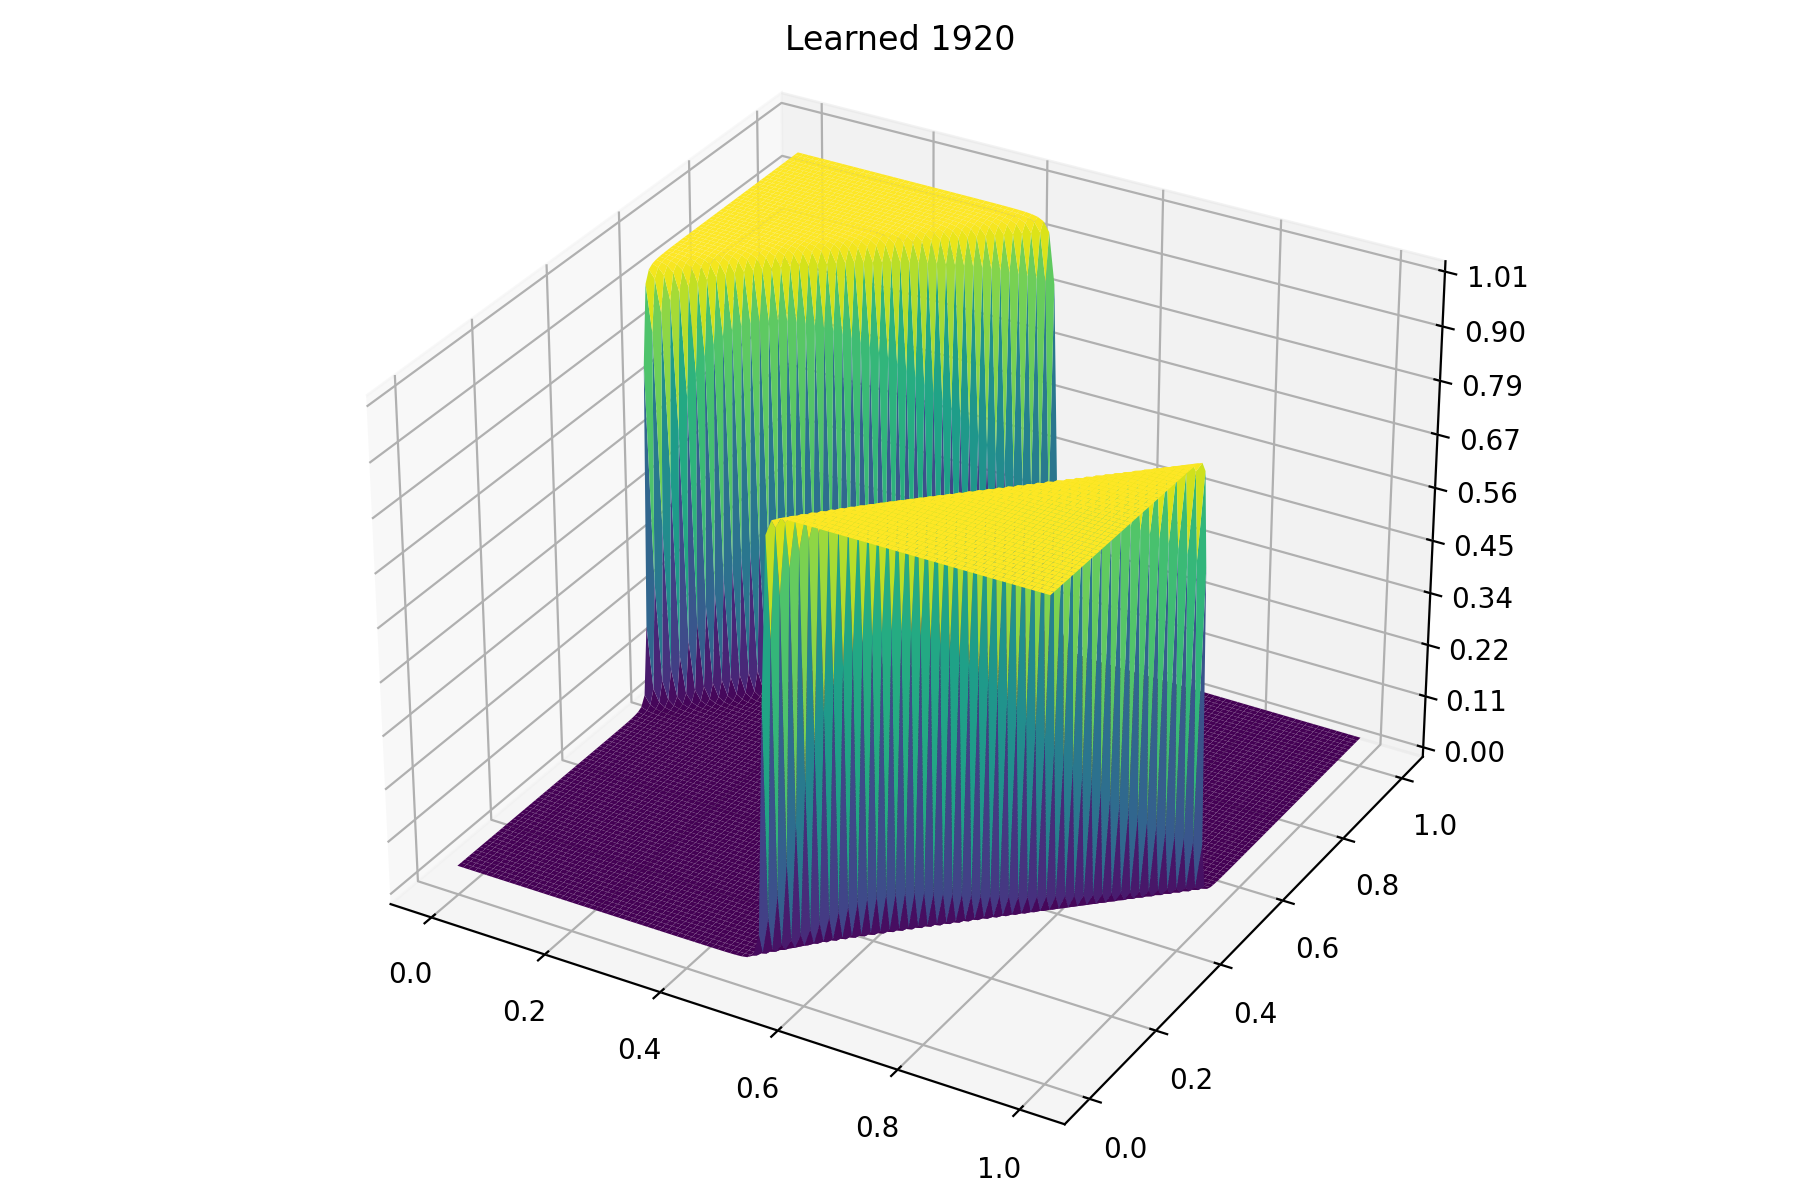
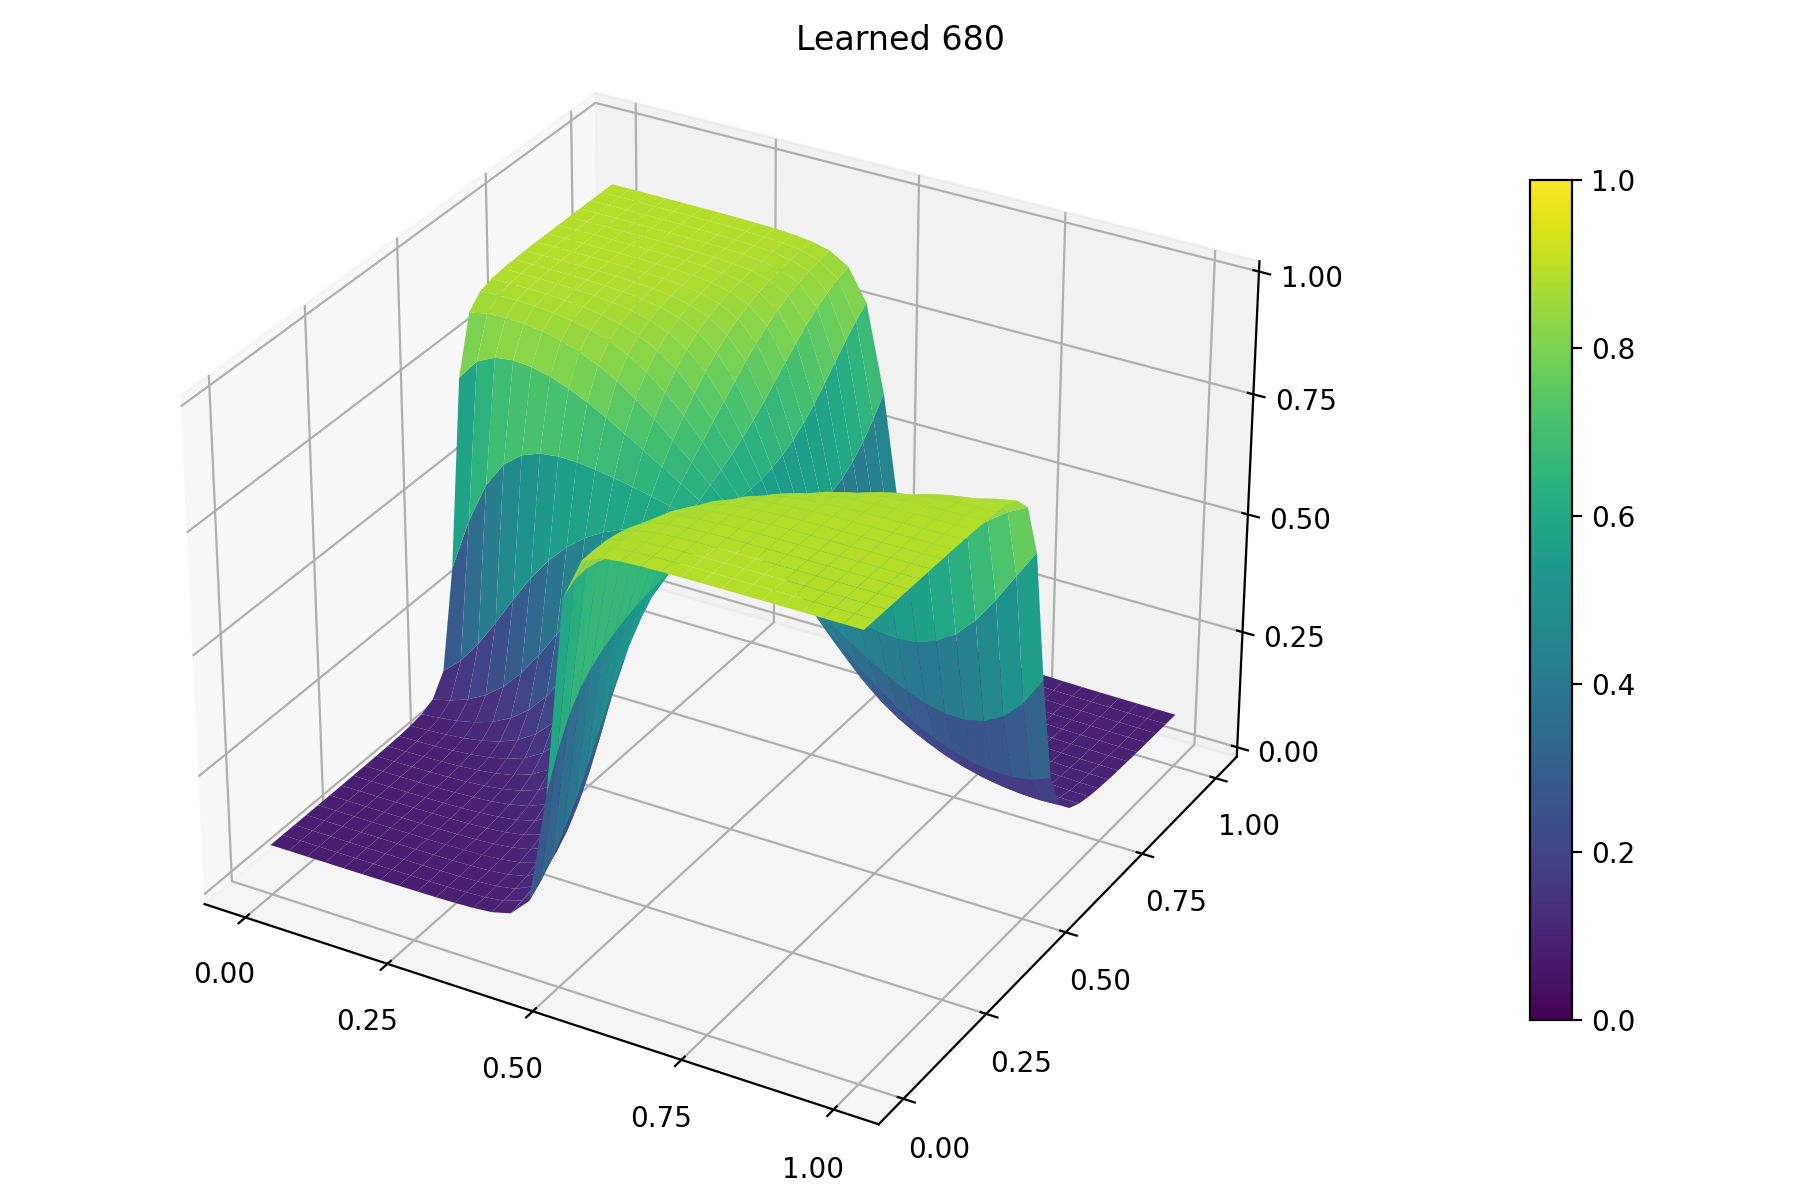
XOR implemented

diff --git a/main.py b/main.py
@@ -13,7 +13,6 @@
 # For testing purposes the XOR algorithm is implemented in the main.py script
 
 import numpy as np
-from matplotlib import cm
 import Neural_Network as nn
 import matplotlib.animation as animation
 import matplotlib.pyplot as plt
@@ -43,7 +42,6 @@ print('1 XOR 1: ', np.round(NN.forward_propagation([1, 1]), 0).reshape(1))
 learning_rounds = 8
 
 fig = plt.figure()
-axs = Axes3D(fig)
 fig.canvas.set_window_title('Learning XOR Algorithm')
 fig.set_size_inches(9, 6)
 # axs.spines['top'].set_color('none')
@@ -58,21 +56,22 @@ def animate(t):
         j = np.random.randint(4)
         NN.train(training_data[j:j + 1, :2].reshape(2), training_data[j:j + 1, 2:].reshape(1))
 
+    fig.clear()
     fig.suptitle('Learned ' +
                  str(learning_rounds * t),
                  fontsize=12
                  )
-
-    axs.clear()
-    num_surface_points = 64
+    axs = Axes3D(fig)
+    num_surface_points = 32
     x = np.linspace(0, 1, num_surface_points)
     y = np.linspace(0, 1, num_surface_points)
     x, y = np.meshgrid(x, y)
     z = np.array(NN.forward_propagation([x, y])).reshape(num_surface_points, num_surface_points)
-    axs.plot_surface(x, y, z,  rstride=1, cstride=1, cmap='viridis', antialiased=True)
-    axs.set_zlim(0, 1.01)
-    axs.zaxis.set_major_locator(LinearLocator(10))
-    axs.zaxis.set_major_formatter(FormatStrFormatter('%.02f'))
+    surf = axs.plot_surface(x, y, z, rstride=1, cstride=1, cmap='viridis', vmin=0, vmax=1, antialiased=True)
+    axs.set_xticks([0, 0.25, 0.5, 0.75, 1])
+    axs.set_yticks([0, 0.25, 0.5, 0.75, 1])
+    axs.set_zticks([0, 0.25, 0.5, 0.75, 1])
+    fig.colorbar(surf, shrink=0.7, aspect=20, pad=0.12)
 
 ani = animation.FuncAnimation(fig, animate, interval=1)
 plt.show()
